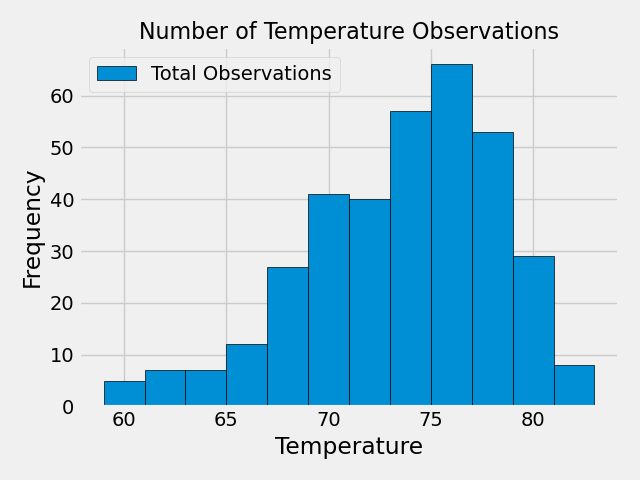
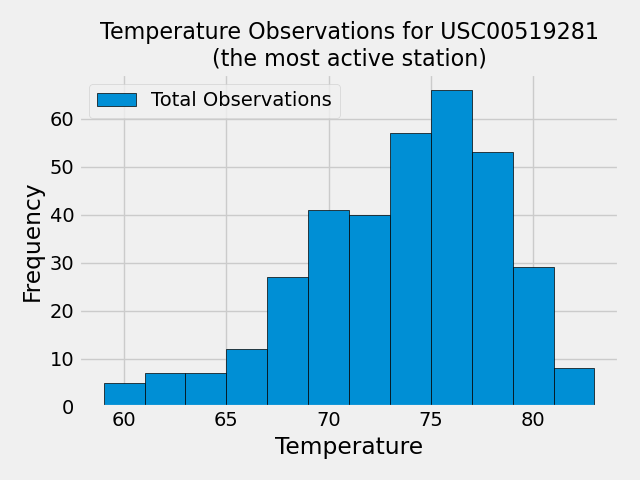
Update Readme, tobs plot, website presentation

diff --git a/app.py b/app.py
@@ -41,23 +41,22 @@ app.config["JSON_SORT_KEYS"] = False
 @app.route("/")
 def homepage():
     return f"""
-        Hello<br/>
-        <br/>
-        Available Routes:<br/>
-        <a href="/api/v1.0/precipitation">Precipitation</a><br/>
-        <a href="/api/v1.0/stations">Stations</a><br/>
-        <a href="/api/v1.0/tobs">tobs</a><br/>
-        <br/>
-        ---Replace &lt;start_date&gt; and (optionally) &lt;end_date&gt; with YYYY-MM-DD format<br/>
-        ---I haven't learned javascript yet. Will make these clickable one day:<br/>
-        /api/v1.0/start/&lt;start_date&gt;<br/>
-        /api/v1.0/start/&lt;start_date&gt;/end/&lt;end_date&gt;<br/>
+        Hello<br>
+        <br>
+        Available Routes:<br>
+        <a href="/api/v1.0/precipitation">Precipitation</a><br>
+        <a href="/api/v1.0/stations">Stations</a><br>
+        <a href="/api/v1.0/tobs">tobs</a><br>
+        /api/v1.0/&lt;start_date&gt;<br>
+        /api/v1.0/&lt;start_date&gt;/&lt;end_date&gt;<br>
+        ---Replace &lt;start_date&gt; and (optionally) &lt;end_date&gt; with YYYY-MM-DD format<br>
+        ---I haven't learned javascript yet. Will make them clickable one day.
     """
 
 """
         experiment, trying to get forms to work with dynamic date ranges
         <form action="/api/v1.0/start/" method="get">
-            Start Date: <input type="text" id="start_date" name="start_date" placeholder="YYYY-MM-DD" required><br>
+            Start Date: <input type="text" id="start_date" autofocus name="start_date" placeholder="YYYY-MM-DD" required><br>
             End Date: <input type="text" id="end_date" name="end_date" placeholder="YYYY-MM-DD"><br>
             <input type="submit" value="Submit">
         </form>
@@ -134,8 +133,8 @@ def time_stats(query):
 
 # two routes to return a JSON list of the min, average, and max temp for a specified start, or start-end range
 # use default value to combine both routes into one query
-@app.route("/api/v1.0/start/<start_date>")
-@app.route("/api/v1.0/start/<start_date>/end/<end_date>")
+@app.route("/api/v1.0/<start_date>")
+@app.route("/api/v1.0/<start_date>/<end_date>")
 def dates(start_date, end_date='2017-08-23'):
     start = time(start_date)
     end = time(end_date)

diff --git a/README.md b/README.md
@@ -12,15 +12,15 @@ After the analysis, Flask is used to create a climate API to return JSON's for t
 
 You can view the climate analysis results in 'climate.ipynb', located in the repository root. If you want to run the code, restart the kernel and 'run all'.
 
-'app.py' creates a climate api and returns JSON queries to users.
+'app.py' creates a climate api and returns JSON queries to users.  Run 'app.py' and open the developer website that it creates to view JSONs. The precipitation, weather stations, and temperature observations are hyperlinked. The start and start-end ones must be manually created, substituting in the date(s) in the appropriate format.
 
 ## Gallery of Significant Results:
 
-Precipitation:
+Exploratory Precipitation Analysis:
 
 ![Bar chart of precipitation measurements for one year](Images/precipitation.png)
 
-Total observations:
+Exploratory Analysis of Total Number of Temperature Observations:
 
 ![Histogram of count of temperature observations](Images/tobs.png)
 
